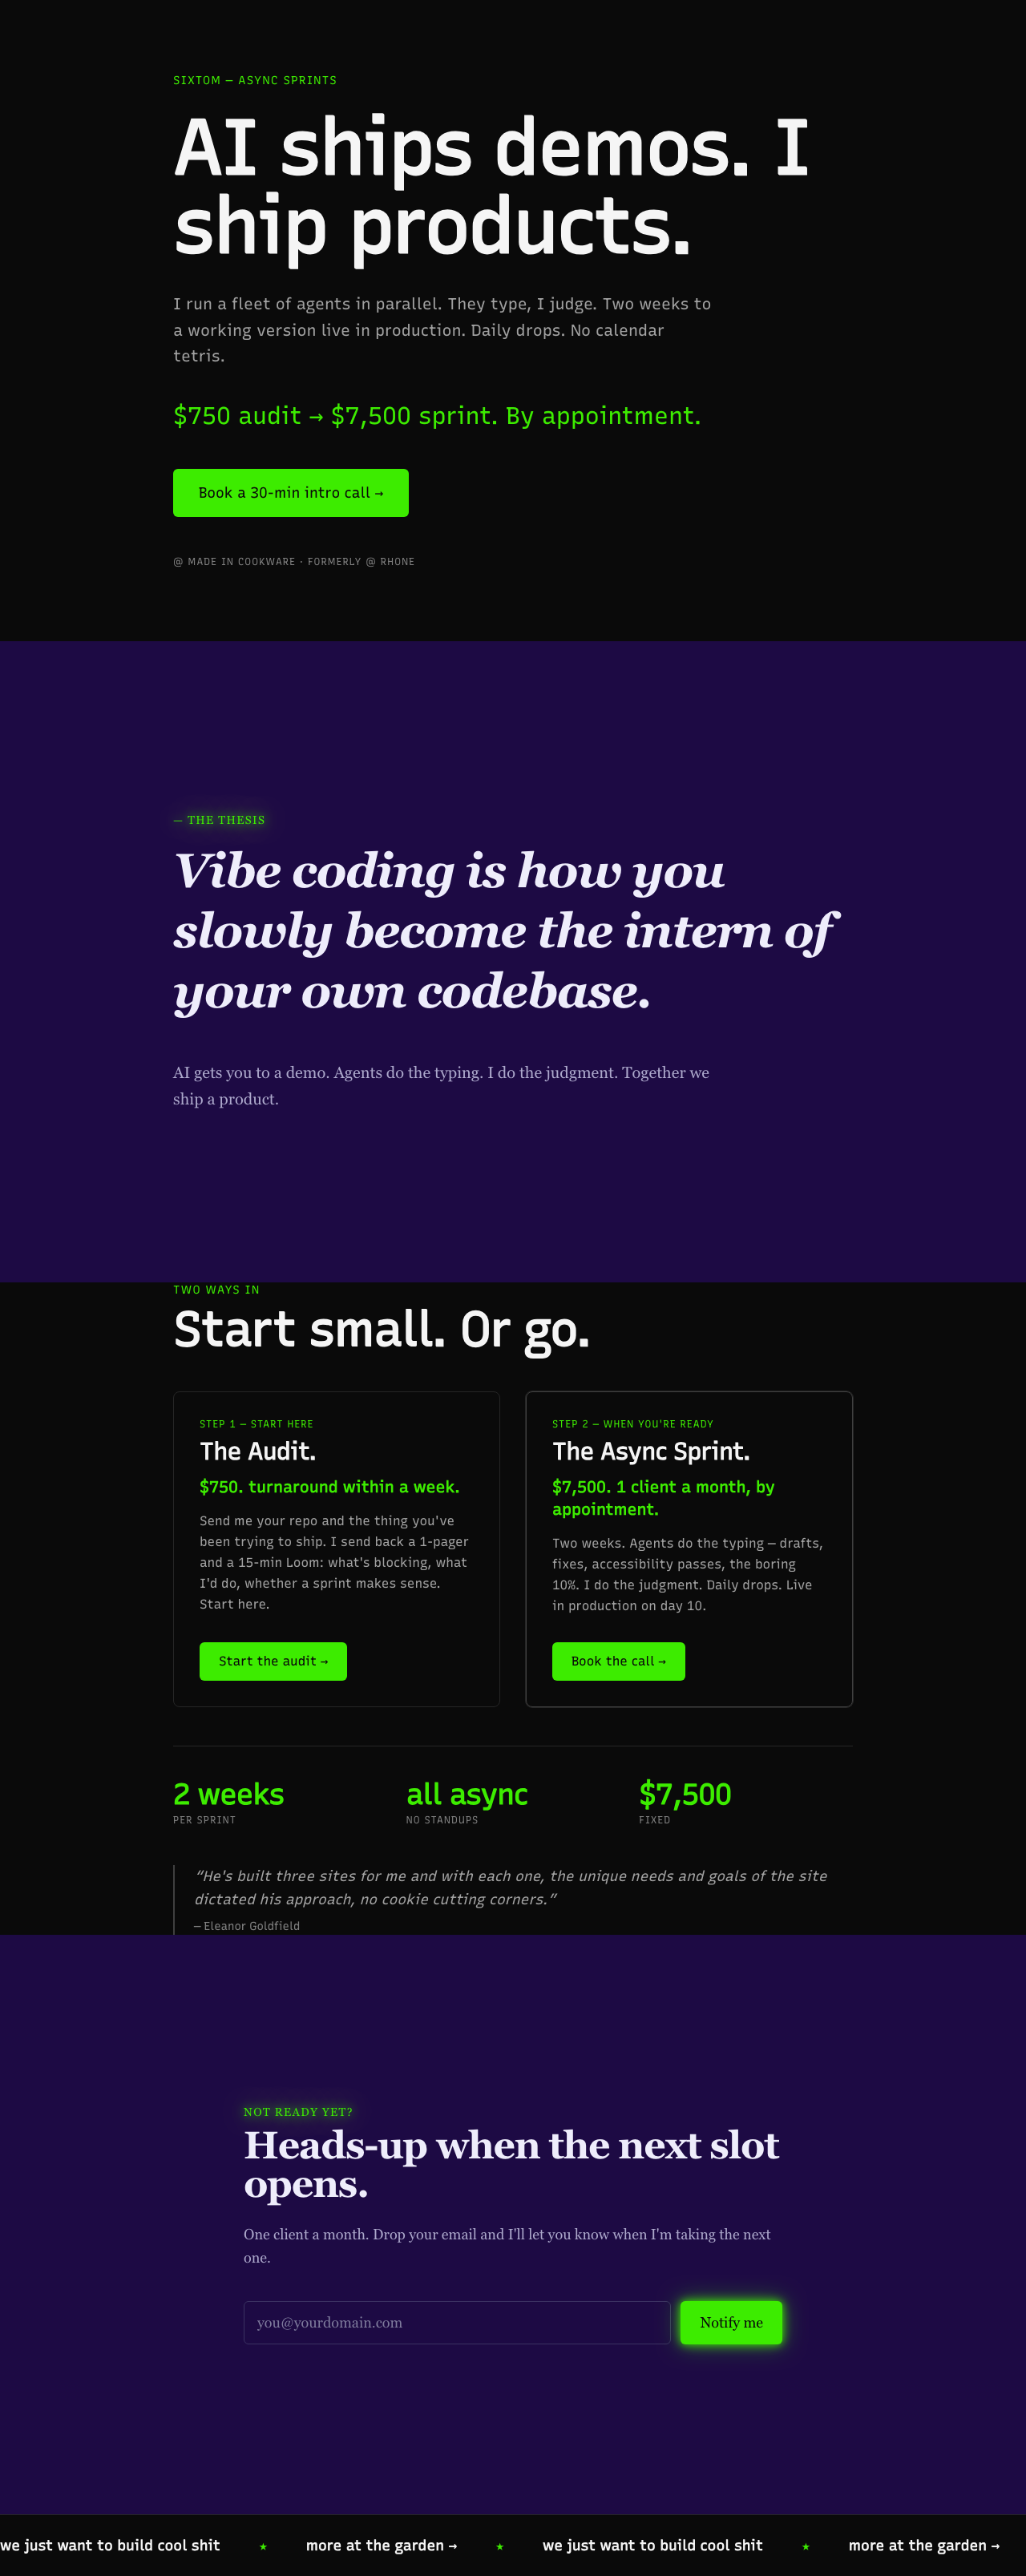
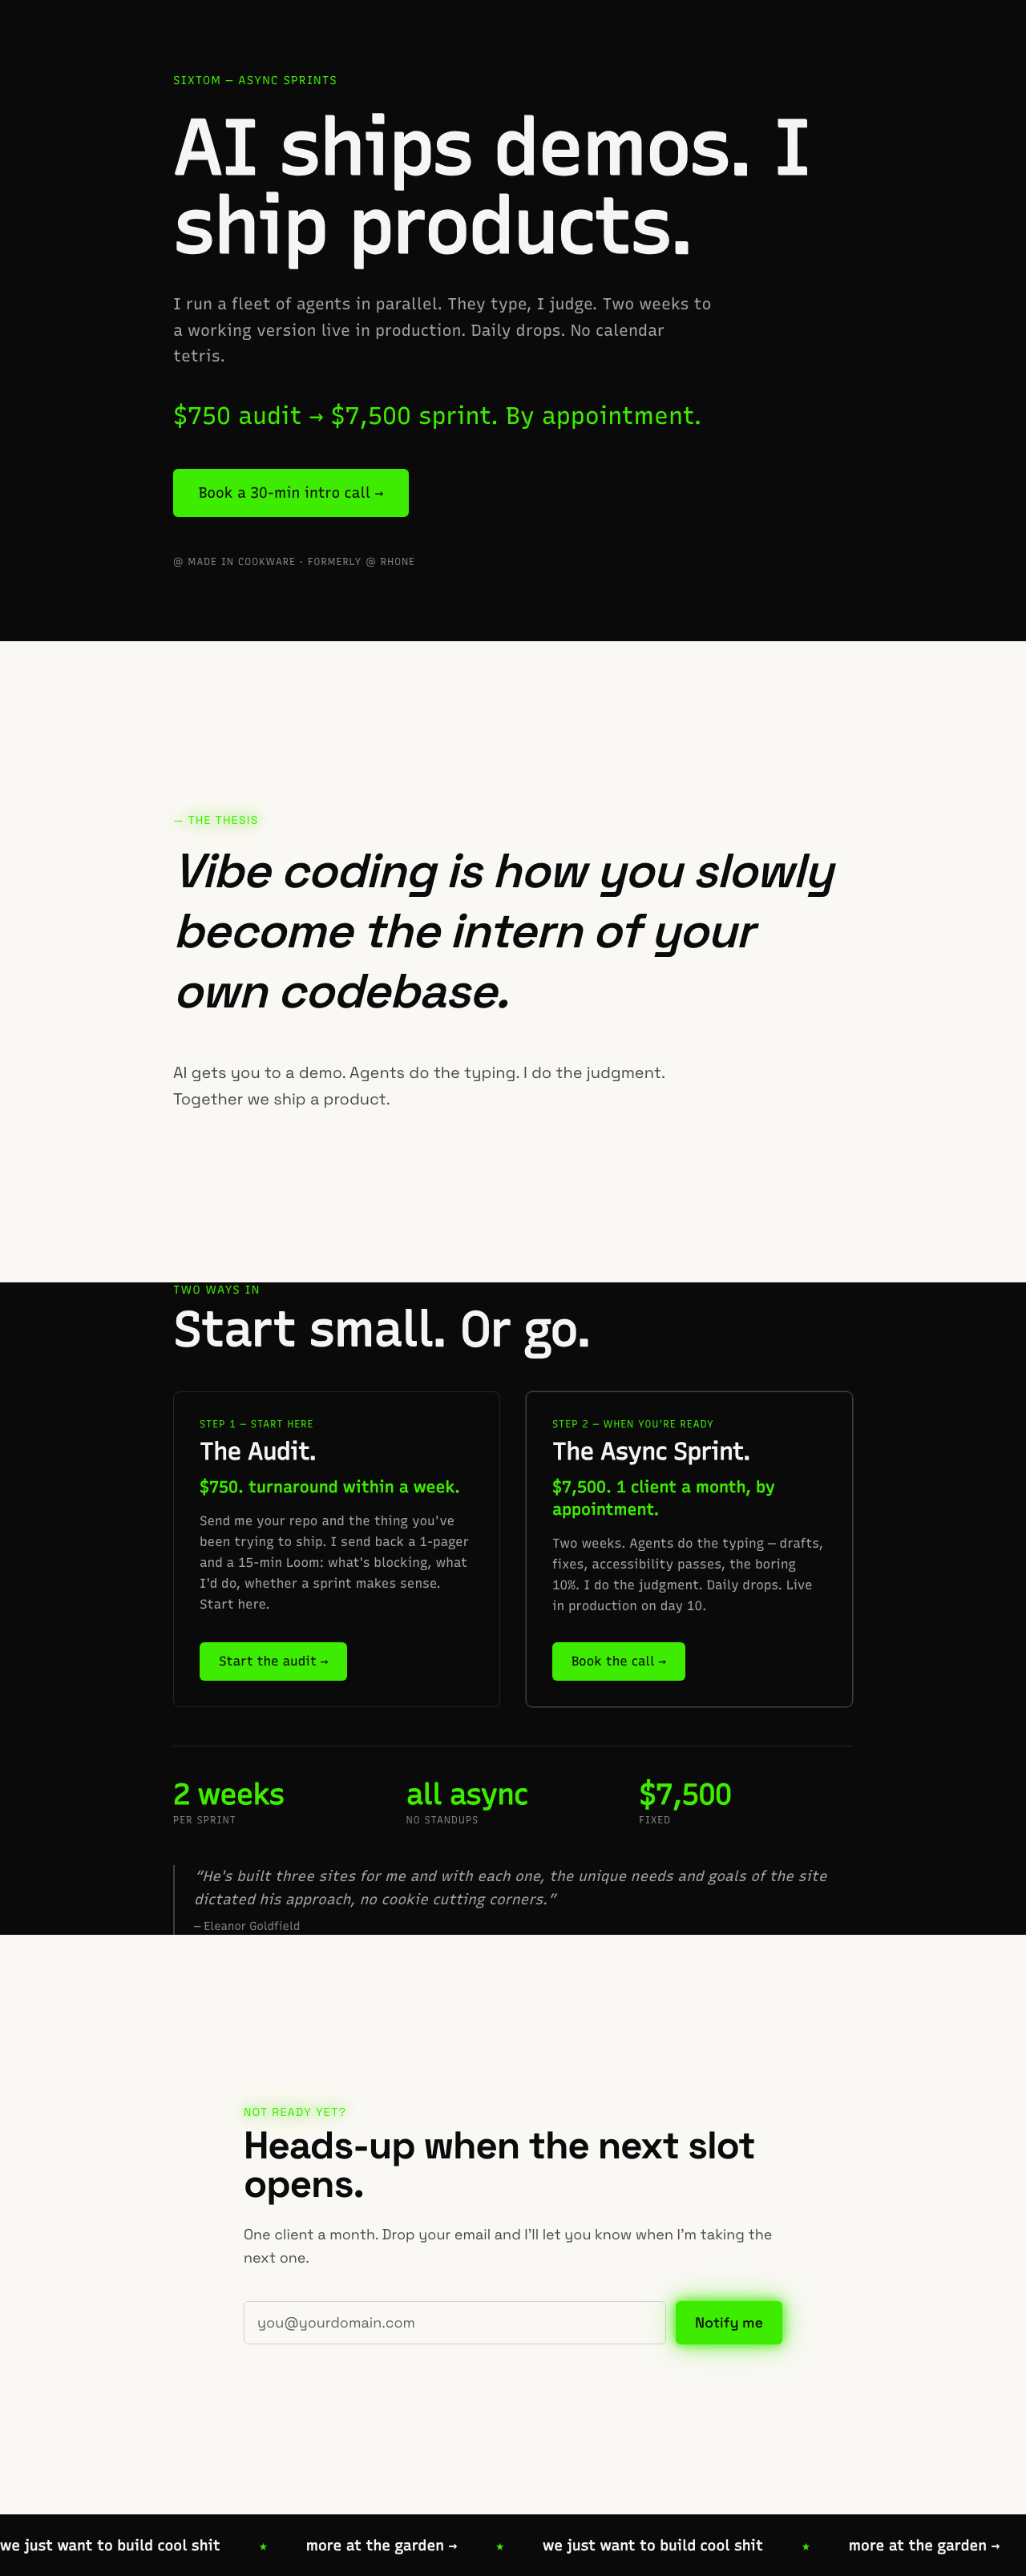
Fix blacklight: white surface + black text + glowing neon accents
I previously read "blacklight" as "make the surface UV-purple". Wrong.
Blacklight = the EFFECT (neon objects fluoresce under UV against a
white wall). Surface stays white. Text stays black. Only the neon
elements glow.

.surface-uv now:
- surface oklch(98% 0.005 85)  — warm off-white
- fg oklch(15% 0 0)             — near-black, full AA
- accent + shadow stack unchanged; on white the green glow reads
  as fluorescence
- font-family back to Space Grotesk (system fallbacks were rough)

Re-adds static/fonts/space-grotesk.woff2 (~22 KB latin variable);
re-adds preload tag in app.html.

Layout per section:
  Hero         dark + Recursive mono
  Thesis       WHITE + black + Space Grotesk + glowing accent
  OfferSection dark + Recursive mono
  LeadCapture  WHITE + black + Space Grotesk + glowing accent
  Marquee      dark (reset) + Recursive mono

7/7 e2e, 21/21 unit. Visual baseline regenerated.

diff --git a/src/app.css b/src/app.css
@@ -10,6 +10,16 @@
 		U+0000-00FF, U+0131, U[phone redacted], U+02BB-02BC, U+02C6, U+02DA, U+02DC, U+0304, U+0308, U+0329,
 		U+2000-206F, U+20AC, U+2122, U+2191, U+2193, U+2212, U+2215, U+FEFF, U+FFFD;
 }
+@font-face {
+	font-family: 'Space Grotesk';
+	font-style: normal;
+	font-weight: 100 900;
+	font-display: swap;
+	src: url('/fonts/space-grotesk.woff2') format('woff2');
+	unicode-range:
+		U+0000-00FF, U+0131, U[phone redacted], U+02BB-02BC, U+02C6, U+02DA, U+02DC, U+0304, U+0308, U+0329,
+		U+2000-206F, U+20AC, U+2122, U+2191, U+2193, U+2212, U+2215, U+FEFF, U+FFFD;
+}
 
 @plugin '@tailwindcss/container-queries';
 @plugin '@tailwindcss/forms';
@@ -36,20 +46,27 @@
 	--shadow-accent: 0 0 0 transparent;
 }
 
-/* Blacklight section: deep UV-purple surface, glow on neon, system serif
- * (Times New Roman) for editorial contrast against the dark sections' system mono. */
+/* Blacklight effect: WHITE surface, BLACK text, neon green accent that glows
+ * via text-shadow / box-shadow — emulates how fluorescent objects appear
+ * under UV light against a white wall. */
 .surface-uv {
-	--color-surface: oklch(22% 0.1 290);
-	--color-fg: oklch(95% 0.02 290);
-	--color-fg-muted: oklch(75% 0.05 290);
-	--color-fg-subtle: oklch(60% 0.05 290);
-	--color-border: oklch(35% 0.08 290);
-	--color-border-strong: oklch(48% 0.1 290);
+	--color-surface: oklch(98% 0.005 85);
+	--color-fg: oklch(15% 0 0);
+	--color-fg-muted: oklch(40% 0 0);
+	--color-fg-subtle: oklch(50% 0 0);
+	--color-border: oklch(86% 0.005 85);
+	--color-border-strong: oklch(72% 0.005 85);
 	--shadow-accent:
-		0 0 12px var(--color-accent), 0 0 28px color-mix(in oklch, var(--color-accent) 50%, transparent);
+		0 0 14px var(--color-accent), 0 0 36px color-mix(in oklch, var(--color-accent) 60%, transparent);
 	background: var(--color-surface);
 	color: var(--color-fg);
-	font-family: ui-serif, 'New York', Georgia, 'Times New Roman', Times, serif;
+	font-family:
+		'Space Grotesk',
+		system-ui,
+		-apple-system,
+		BlinkMacSystemFont,
+		'Segoe UI',
+		sans-serif;
 }
 
 /* Reset to default dark palette inside a .surface-uv parent (marquee bar). */

diff --git a/src/app.html b/src/app.html
@@ -22,6 +22,13 @@
 			type="font/woff2"
 			crossorigin
 		/>
+		<link
+			rel="preload"
+			href="%sveltekit.assets%/fonts/space-grotesk.woff2"
+			as="font"
+			type="font/woff2"
+			crossorigin
+		/>
 
 		<meta property="og:title" content="SIXTOM — async sprints with Sam D'Angelo" />
 		<meta